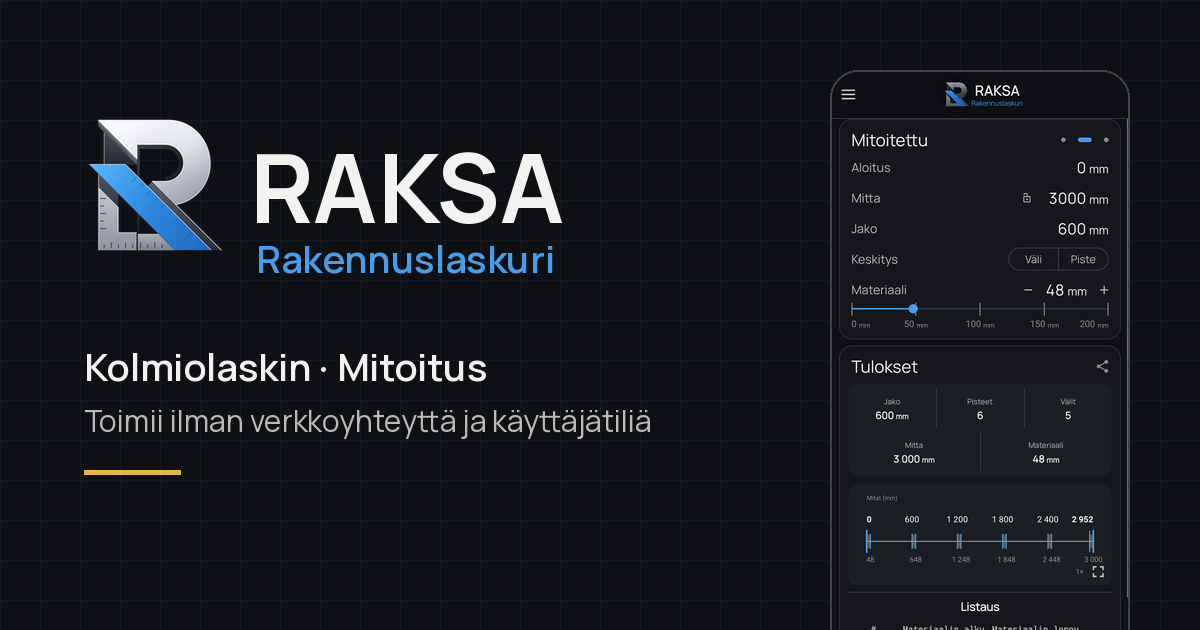
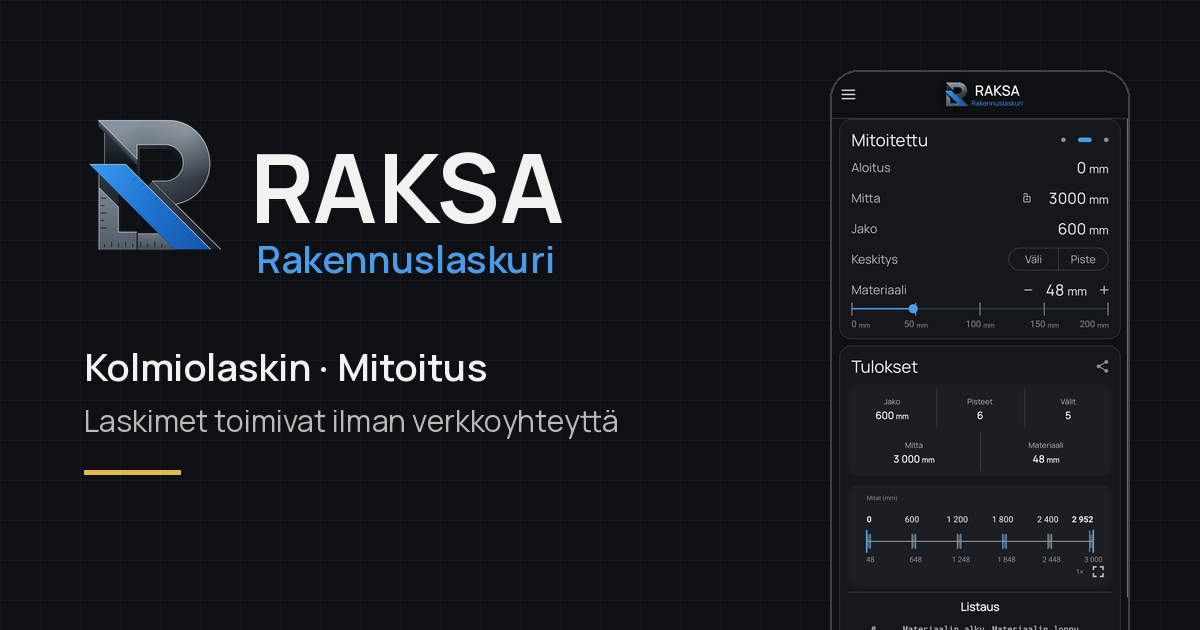
Align website with app 1.2.820 for the Google Play release
- Privacy policy (FI/EN) rewritten from the 1.2.820 implementation:
  INTERNET and ACCESS_NETWORK_STATE permissions, Google ML Kit
  Translation model download, on-device translation, ML Kit diagnostics
  (per Google's ML Kit data disclosure), local storage incl. translated
  texts and model, backup scope, no ads/analytics/tracking; updated date
- Last-updated date has one source (<time datetime>) formatted per language
- Home page: offline claim limited to the calculators, new Languages
  feature (FI/EN built in, 50+ automatically translated), version 1.2.820
  and Android 8.0+, no claim of zero permissions
- Google Play button: neutral "Tulossa Google Playhin / Coming to Google
  Play" state; set PLAY_STORE_URL in site.js to turn it into the store link
- Social preview text and sitemap dates updated

Claude-Session: https://claude.ai/code/session_01RPndgq7MaFfFhrsPx3GJA2

Changed region(s): [[0.0617, 0.6333, 0.555, 0.6937], [0.0617, 0.181, 0.185, 0.4222]]

diff --git a/raksa/privacy.html b/raksa/privacy.html
@@ -13,7 +13,7 @@
 <link rel="icon" type="image/png" sizes="192x192" href="assets/icon-192.png">
 <link rel="apple-touch-icon" href="assets/apple-touch-icon.png">
 <link rel="preload" href="assets/fonts/manrope-regular.woff2" as="font" type="font/woff2" crossorigin>
-<link rel="stylesheet" href="style.css?v=19">
+<link rel="stylesheet" href="style.css?v=20">
 <meta property="og:type" content="website">
 <meta property="og:site_name" content="Raksa">
 <meta property="og:title" content="Raksa | Tietosuojaseloste" data-i18n-content="privacyPageTitle">
@@ -21,7 +21,7 @@
 <meta property="og:url" content="https://www.rikalo.fi/raksa/privacy.html">
 <meta property="og:image" content="https://www.rikalo.fi/raksa/assets/social-preview.png">
 <meta name="twitter:card" content="summary_large_image">
-<script src="site.js?v=19" defer></script>
+<script src="site.js?v=20" defer></script>
 </head>
 <body data-page="privacy">
 <a class="skip" href="#main" data-i18n="skip">Siirry sisältöön</a>
@@ -48,53 +48,65 @@
     <p class="lead" data-i18n="privacyLead">Raksa-Android-sovelluksen ja tämän verkkosivun tietojen käsittely</p>
     <dl class="privacy-meta">
       <div><dt data-i18n="metaPackage">Pakettitunnus</dt><dd>fi.rikalo.raksa</dd></div>
-      <div><dt data-i18n="metaVersion">Sovellusversio</dt><dd>1.2.806</dd></div>
-      <div><dt data-i18n="metaUpdated">Päivitetty</dt><dd data-i18n="metaUpdatedValue">15.11.2026</dd></div>
+      <div><dt data-i18n="metaVersion">Sovellusversio</dt><dd>1.2.820</dd></div>
+      <div><dt data-i18n="metaUpdated">Päivitetty</dt><dd><time datetime="2026-11-16">16.11.2026</time></dd></div>
     </dl>
   </div>
 
   <div class="policy" data-lang="fi" lang="fi">
-    <section class="summary"><h2>Tiivistelmä</h2><p>Raksa toimii ilman käyttäjätiliä ja ilman verkkoyhteyttä. Laskenta tapahtuu laitteessa, eikä Raksa lähetä laskenta-arvoja kehittäjälle tai mihinkään ulkoiseen analytiikka-, mainos- tai pilvipalveluun. Sovelluksessa ei ole mainoksia, analytiikkaa eikä kolmannen osapuolen seurantaa.</p></section>
+    <section class="summary"><h2>Tiivistelmä</h2><p>Raksan laskimet toimivat laitteessa ilman verkkoyhteyttä ja ilman käyttäjätiliä. Raksa ei lähetä laskenta- tai mittaustietoja laitteen ulkopuolelle, eikä kehittäjällä ole palvelinta. Sovelluksessa ei ole mainontaa, analytiikkaa eikä käyttäjäseurantaa.</p><p>Jos valitset automaattisesti käännetyn kielen, sovellus lataa kielimallin Googlelta Google ML Kit Translation -kirjastolla. Käännös tehdään laitteessa, mutta ML Kit lähettää Googlelle diagnostiikka- ja käyttötietoja kohdan 5 mukaisesti.</p></section>
 
     <section id="yhteystiedot"><h2>1. Rekisterinpitäjä ja yhteystiedot</h2><p>Raksa-sovelluksen tietojen käsittelystä vastaa sovelluksen kehittäjä. Kehittäjän nimi ja sähköpostiosoite tietosuojakysymyksiä varten:</p><p data-contact><button type="button" class="reveal">Näytä yhteystiedot</button></p><p>Verkkosivu: <a href="https://www.rikalo.fi/raksa/">https://www.rikalo.fi/raksa/</a></p><noscript><p>Yhteystiedot näkyvät, kun JavaScript on käytössä.</p></noscript></section>
 
-    <section><h2>2. Sovelluksen käsittelemät tiedot</h2><p>Raksa käsittelee käyttäjän laitteessa vain sovelluksen toimintaan tarvittavia tietoja:</p><ul><li>laskureihin syötetyt arvot ja laskinten tila</li><li>kieli, teema, mittayksikkö ja desimaalit</li><li>mitoituksen ja kolmiolaskimen paikalliset asetukset.</li></ul><p>Tietoja käytetään laskentaan sekä käyttäjän valintojen ja keskeneräisen työn palauttamiseen.</p></section>
+    <section><h2>2. Sovelluksen käsittelemät tiedot</h2><p>Raksa käsittelee vain sovelluksen toimintaan tarvittavia tietoja:</p><ul><li>laskureihin syötetyt arvot ja laskinten tila</li><li>asetukset: mittayksikkö, desimaalit, teema, kieli ja mitoituksen asetukset</li><li>tieto siitä, että olet hyväksynyt automaattisen käännöksen huomautuksen</li><li>automaattisesti käännetyn kielen käännetyt sovellustekstit.</li></ul><p>Sovellus ei pyydä nimeä, sähköpostiosoitetta, sijaintia, yhteystietoja tai muita henkilötietoja, eikä siinä ole käyttäjätiliä.</p></section>
 
-    <section><h2>3. Kerääminen, jakaminen ja käyttöoikeudet</h2><p>Raksa ei kerää tai siirrä sovelluksen tietoja kehittäjän palvelimelle. Kehittäjä ei myy tietoja eikä luovuta niitä kolmansille osapuolille. Sovelluksessa ei ole käyttäjätiliä, mainoksia, analytiikkaa, kaatumisraportointia eikä sijainnin seurantaa.</p><p>Sovellus ei pyydä internet-, kamera-, mikrofoni-, sijainti-, yhteystieto-, tiedosto- tai muuta vastaavaa Android-käyttöoikeutta.</p></section>
+    <section><h2>3. Paikallinen tallennus</h2><p>Tiedot tallennetaan sovelluksen yksityiseen tallennustilaan laitteessa:</p><ul><li>asetukset, kielivalinta ja laskinten tila</li><li>automaattisesti käännetyn kielen käännetyt sovellustekstit</li><li>ML Kitin kielimalli (noin 30 Mt), jota ML Kit hallitsee</li><li>jaettava tuloskuva sovelluksen väliaikaisessa välimuistissa.</li></ul></section>
 
-    <section><h2>4. Kopiointi ja tulosten jakaminen</h2><p>Kun napautat tulosarvoa, Raksa kopioi luvun Androidin leikepöydälle. Leikepöytää hallitsee käyttöjärjestelmä.</p><p>Kun valitset tulosten jakamisen, Raksa piirtää tuloskortista kuvan sovelluksen väliaikaiseen välimuistiin ja avaa Androidin jakovalikon. Kuva siirtyy vain valitsemaasi sovellukseen tai palveluun, ja siihen sovelletaan sen ehtoja. Raksa ei lähetä kuvaa itse, eikä välimuistin kuvaa sisällytetä varmuuskopioon.</p></section>
+    <section><h2>4. Android-käyttöoikeudet</h2><p>Sovellus käyttää kahta tavallista käyttöoikeutta, joita Android ei kysy erikseen:</p><ul><li><strong>Internet</strong> (INTERNET): automaattisesti käännetyn kielen kielimallin lataus ja ML Kitin diagnostiikka</li><li><strong>Verkon tila</strong> (ACCESS_NETWORK_STATE): verkkoyhteyden tarkistus ennen kielimallin latausta.</li></ul><p>Sovellus ei pyydä sijainti-, kamera-, mikrofoni-, yhteystieto-, tiedosto-, ilmoitus- tai tilioikeuksia.</p></section>
 
-    <section><h2>5. Paikallinen tallennus ja Android-varmuuskopiointi</h2><p>Asetukset ja laskinten tila tallennetaan sovelluksen yksityiseen paikalliseen tallennustilaan.</p><p>Raksa sallii Androidin varmuuskopiointi- ja laitteensiirtotoiminnot asetuksille ja laskinten tilalle. Jos Android-varmuuskopiointi on käytössä, käyttöjärjestelmä voi siirtää tiedot Googlen hallinnoimaan varmuuskopioon tai uuteen laitteeseen. Käyttäjä hallitsee varmuuskopiointia laitteen ja Google-tilin asetuksissa.</p></section>
+    <section><h2>5. Verkkoyhteys ja Google ML Kit Translation</h2><p>Kolmiolaskin, Mitoitus, suomi, englanti, asetukset, tallennus, kopiointi ja jakaminen toimivat ilman verkkoyhteyttä.</p><p>Suomi ja englanti ovat sovelluksen omia käännöksiä. Muut kielet käännetään automaattisesti Google ML Kit Translation -kirjastolla (käännökset tuottaa Google Translate). Kun valitset tällaisen kielen, sovellus näyttää ensin huomautuksen. Hyväksynnän jälkeen kielimalli ladataan Googlen palvelimilta kerran, mikä vaatii verkkoyhteyden. Käännös tehdään laitteessa, ja vain sovelluksen omat tekstit käännetään. Laskenta- ja mittaustietoja tai syöttämiäsi arvoja ei lähetetä käännettäväksi.</p><p>ML Kit kerää käännöstoiminnon yhteydessä diagnostiikka- ja käyttötietoja ja lähettää ne Googlelle. Googlen ilmoituksen mukaan tietoja ovat esimerkiksi laitetiedot (valmistaja, malli ja käyttöjärjestelmän versio), sovelluksen pakettinimi ja versio, asennuskohtaiset tunnisteet, suorituskykymittarit, tapahtumatyypit ja virhekoodit sekä valitut lähde- ja kohdekielet. Googlen mukaan tiedot salataan siirron aikana (HTTPS), eikä niitä luovuteta kolmansille osapuolille. Google käsittelee tietoja omien ehtojensa mukaisesti; lisätietoja: <a href="https://developers.google.com/ml-kit/android-data-disclosure">ML Kitin tietojen käsittely</a> ja <a href="https://developers.google.com/ml-kit/terms">ML Kitin käyttöehdot</a>.</p></section>
 
-    <section><h2>6. Säilytys ja poistaminen</h2><p>Paikalliset tiedot säilyvät, kunnes käyttäjä muuttaa tai tyhjentää ne, tyhjentää sovelluksen tiedot Androidin asetuksista tai poistaa sovelluksen. Varmuuskopion säilytys määräytyy Androidin ja Google-tilin asetusten mukaan.</p><p>Raksalla ei ole kehittäjän ylläpitämää käyttäjätiliä eikä palvelinrekisteriä, joten kehittäjällä ei ole käyttäjäkohtaista palvelindataa poistettavana.</p></section>
+    <section><h2>6. Kopiointi ja tulosten jakaminen</h2><p>Kun napautat tulosarvoa, Raksa kopioi luvun Androidin leikepöydälle. Leikepöytää hallitsee käyttöjärjestelmä.</p><p>Kun valitset tulosten jakamisen, Raksa piirtää tuloskortista kuvan sovelluksen väliaikaiseen välimuistiin ja avaa Androidin jakovalikon. Kuva siirtyy vain valitsemaasi sovellukseen tai palveluun, ja siihen sovelletaan sen ehtoja. Raksa ei lähetä kuvaa itse.</p></section>
 
-    <section><h2>7. Lapset ja tietoturva</h2><p>Raksa on yleiskäyttöinen rakentamisen laskenta- ja mitoitustyökalu. Se ei kysy ikää eikä tietoisesti kerää henkilötietoja lapsilta tai muilta käyttäjiltä.</p><p>Tietojen käsittely on rajattu sovelluksen toiminnan edellyttämään paikalliseen tallennukseen. Käyttäjän kannattaa suojata laitteensa näytön lukituksella ja pitää ohjelmistot ajan tasalla.</p></section>
+    <section><h2>7. Android-varmuuskopiointi</h2><p>Raksa sallii Androidin varmuuskopioinnin ja laitteensiirron asetuksille, kielivalinnalle ja laskinten tilalle. Jos Android-varmuuskopiointi on käytössä, käyttöjärjestelmä voi siirtää nämä tiedot Googlen hallinnoimaan varmuuskopioon tai uuteen laitteeseen. Käännettyjä tekstejä, ML Kitin kielimallia ja välimuistin tuloskuvaa ei varmuuskopioida. Käyttäjä hallitsee varmuuskopiointia laitteen ja Google-tilin asetuksissa.</p></section>
 
-    <section><h2>8. Tämä verkkosivu</h2><p>Verkkosivu ei käytä evästeitä, analytiikkaa eikä ulkoisia fontti- tai skriptipalveluita. Kieli- ja teemavalinta tallennetaan vain selaimesi paikalliseen tallennustilaan.</p><p>Sivusto on GitHub Pages -palvelussa. GitHub voi käsitellä sivujen toimittamiseen liittyviä teknisiä tietoja, kuten IP-osoitteen, omien käytäntöjensä mukaisesti.</p></section>
+    <section><h2>8. Mainonta, analytiikka ja seuranta</h2><p>Sovelluksessa ei ole mainontaa, mainostunnistetta, analytiikkaa, kaatumisraportointia eikä käyttäjäseurantaa. Ainoa ulkopuolinen tiedonsiirto on kohdassa 5 kuvattu ML Kitin diagnostiikka.</p></section>
 
-    <section><h2>9. Muutokset</h2><p>Selostetta päivitetään, jos Raksan ominaisuudet tai tietojen käsittely muuttuvat. Uusin versio julkaistaan tällä sivulla.</p></section>
+    <section><h2>9. Säilytys ja poistaminen</h2><p>Paikalliset tiedot säilyvät, kunnes muutat tai tyhjennät ne, tyhjennät sovelluksen tiedot Androidin asetuksista tai poistat sovelluksen. Sovelluksen tietojen tyhjennys tai poisto poistaa myös käännetyt tekstit ja kielimallin. Varmuuskopion säilytys määräytyy Androidin ja Google-tilin asetusten mukaan, ja ML Kitin diagnostiikkatietojen säilytys Googlen käytäntöjen mukaan.</p><p>Raksalla ei ole kehittäjän ylläpitämää käyttäjätiliä eikä palvelinta, joten kehittäjällä ei ole käyttäjäkohtaista tietoa poistettavana.</p></section>
+
+    <section><h2>10. Lapset ja tietoturva</h2><p>Raksa on yleiskäyttöinen rakentamisen laskenta- ja mitoitustyökalu. Se ei kysy ikää eikä tietoisesti kerää henkilötietoja lapsilta tai muilta käyttäjiltä.</p><p>Käyttäjän kannattaa suojata laitteensa näytön lukituksella ja pitää ohjelmistot ajan tasalla.</p></section>
+
+    <section><h2>11. Tämä verkkosivu</h2><p>Verkkosivu ei käytä evästeitä, analytiikkaa eikä ulkoisia fontti- tai skriptipalveluita. Kieli- ja teemavalinta tallennetaan vain selaimesi paikalliseen tallennustilaan.</p><p>Sivusto on GitHub Pages -palvelussa. GitHub voi käsitellä sivujen toimittamiseen liittyviä teknisiä tietoja, kuten IP-osoitteen, omien käytäntöjensä mukaisesti.</p></section>
+
+    <section><h2>12. Muutokset</h2><p>Selostetta päivitetään, jos Raksan ominaisuudet tai tietojen käsittely muuttuvat. Uusin versio julkaistaan tällä sivulla.</p></section>
   </div>
 
   <div class="policy" data-lang="en" lang="en">
-    <section class="summary"><h2>Summary</h2><p>Raksa works without a user account and without an internet connection. Calculations are performed on the device, and Raksa does not send calculation values to the developer or to any external analytics, advertising or cloud service. The app contains no advertising, analytics or third-party tracking.</p></section>
+    <section class="summary"><h2>Summary</h2><p>Raksa's calculators work on the device without an internet connection and without a user account. Raksa does not send calculation or measurement data off the device, and the developer operates no server. The app contains no advertising, analytics or user tracking.</p><p>If you choose an automatically translated language, the app downloads a language model from Google using the Google ML Kit Translation library. Translation happens on the device, but ML Kit sends diagnostic and usage data to Google as described in section 5.</p></section>
 
     <section id="contact"><h2>1. Controller and contact</h2><p>The developer of the app is responsible for Raksa's data handling. The developer's name and email address for privacy questions:</p><p data-contact><button type="button" class="reveal">Show contact details</button></p><p>Website: <a href="https://www.rikalo.fi/raksa/">https://www.rikalo.fi/raksa/</a></p><noscript><p>Contact details are shown when JavaScript is enabled.</p></noscript></section>
 
-    <section><h2>2. Data processed by the app</h2><p>Raksa processes only the information needed for the app to work, locally on the user's device:</p><ul><li>values entered in the calculators and calculator state</li><li>language, theme, measurement unit and decimal places</li><li>local settings for dimensioning and the triangle calculator.</li></ul><p>The information is used for calculations and to restore the user's choices and unfinished work.</p></section>
+    <section><h2>2. Data processed by the app</h2><p>Raksa processes only the information the app needs to work:</p><ul><li>values entered in the calculators and calculator state</li><li>settings: measurement unit, decimal places, theme, language and dimensioning settings</li><li>a record that you have accepted the automatic translation notice</li><li>the translated app texts for an automatically translated language.</li></ul><p>The app does not ask for your name, email address, location, contacts or other personal data, and it has no user account.</p></section>
 
-    <section><h2>3. Collection, sharing and permissions</h2><p>Raksa does not collect or transfer app data to a developer-operated server. The developer does not sell the data or disclose it to third parties. The app has no user account, advertising, analytics, crash reporting or location tracking.</p><p>The app does not request internet, camera, microphone, location, contacts, file or similar Android permissions.</p></section>
+    <section><h2>3. Local storage</h2><p>The information is stored in the app's private storage on the device:</p><ul><li>settings, language choice and calculator state</li><li>the translated app texts for an automatically translated language</li><li>the ML Kit language model (about 30 MB), managed by ML Kit</li><li>a shareable result image in the app's temporary cache.</li></ul></section>
 
-    <section><h2>4. Copying and sharing results</h2><p>When you tap a result value, Raksa copies the number to the Android clipboard. The clipboard is managed by the operating system.</p><p>When you choose to share results, Raksa draws an image of the result card into the app's temporary cache and opens the Android share sheet. The image goes only to the app or service you choose, and that recipient's terms apply. Raksa does not send the image itself, and the cached image is not included in backups.</p></section>
+    <section><h2>4. Android permissions</h2><p>The app uses two normal permissions that Android does not ask you about separately:</p><ul><li><strong>Internet</strong> (INTERNET): downloading the language model for an automatically translated language, and ML Kit diagnostics</li><li><strong>Network state</strong> (ACCESS_NETWORK_STATE): checking the connection before the language model is downloaded.</li></ul><p>The app does not request location, camera, microphone, contacts, file, notification or account permissions.</p></section>
 
-    <section><h2>5. Local storage and Android backup</h2><p>Settings and calculator state are stored in the app's private local storage.</p><p>Raksa permits Android backup and device transfer for settings and calculator state. If Android backup is enabled, the operating system may transfer the information to a Google-managed backup or to a new device. Users manage backup in their device and Google Account settings.</p></section>
+    <section><h2>5. Network use and Google ML Kit Translation</h2><p>The triangle calculator, dimensioning, Finnish, English, settings, saving, copying and sharing all work without an internet connection.</p><p>Finnish and English are the app's own translations. Other languages are translated automatically with the Google ML Kit Translation library (translations powered by Google Translate). When you choose such a language, the app first shows a notice. After you accept it, the language model is downloaded from Google's servers once, which requires a network connection. Translation happens on the device, and only the app's own texts are translated. Calculation and measurement data and the values you enter are not sent for translation.</p><p>In connection with the translation feature, ML Kit collects diagnostic and usage data and sends it to Google. According to Google, this includes device information (manufacturer, model and operating system version), the app's package name and version, per-installation identifiers, performance metrics, event types and error codes, and the selected source and target languages. According to Google, the data is encrypted in transit (HTTPS) and is not transferred to third parties. Google processes the data under its own terms; more information: <a href="https://developers.google.com/ml-kit/android-data-disclosure">ML Kit data disclosure</a> and <a href="https://developers.google.com/ml-kit/terms">ML Kit Terms of Service</a>.</p></section>
 
-    <section><h2>6. Retention and deletion</h2><p>Local information remains until the user changes or clears it, clears the app's data in Android settings or uninstalls the app. Backup retention is determined by Android and Google Account settings.</p><p>Raksa has no developer-operated user account or server database, so the developer holds no user-specific server data to delete.</p></section>
+    <section><h2>6. Copying and sharing results</h2><p>When you tap a result value, Raksa copies the number to the Android clipboard. The clipboard is managed by the operating system.</p><p>When you choose to share results, Raksa draws an image of the result card into the app's temporary cache and opens the Android share sheet. The image goes only to the app or service you choose, and that recipient's terms apply. Raksa does not send the image itself.</p></section>
 
-    <section><h2>7. Children and security</h2><p>Raksa is a general-purpose construction calculation and dimensioning tool. It does not ask for age and does not knowingly collect personal data from children or other users.</p><p>Data handling is limited to the local storage the app needs to work. Users should protect their device with a screen lock and keep software up to date.</p></section>
+    <section><h2>7. Android backup</h2><p>Raksa permits Android backup and device transfer for settings, language choice and calculator state. If Android backup is enabled, the operating system may transfer this information to a Google-managed backup or to a new device. Translated texts, the ML Kit language model and the cached result image are not backed up. You manage backup in your device and Google Account settings.</p></section>
 
-    <section><h2>8. This website</h2><p>This website uses no cookies, analytics or external font or script services. Your language and theme choice is stored only in your browser's local storage.</p><p>The site is hosted on GitHub Pages. GitHub may process technical information needed to deliver the pages, such as IP addresses, under its own policies.</p></section>
+    <section><h2>8. Advertising, analytics and tracking</h2><p>The app contains no advertising, advertising ID, analytics, crash reporting or user tracking. The only external data transfer is the ML Kit diagnostics described in section 5.</p></section>
 
-    <section><h2>9. Changes</h2><p>This policy is updated if Raksa's features or data handling change. The latest version is published on this page.</p></section>
+    <section><h2>9. Retention and deletion</h2><p>Local information remains until you change or clear it, clear the app's data in Android settings or uninstall the app. Clearing the app's data or uninstalling it also removes the translated texts and the language model. Backup retention is determined by Android and Google Account settings, and retention of ML Kit diagnostic data by Google's policies.</p><p>Raksa has no developer-operated user account or server, so the developer holds no user-specific data to delete.</p></section>
+
+    <section><h2>10. Children and security</h2><p>Raksa is a general-purpose construction calculation and dimensioning tool. It does not ask for age and does not knowingly collect personal data from children or other users.</p><p>Users should protect their device with a screen lock and keep software up to date.</p></section>
+
+    <section><h2>11. This website</h2><p>This website uses no cookies, analytics or external font or script services. Your language and theme choice is stored only in your browser's local storage.</p><p>The site is hosted on GitHub Pages. GitHub may process technical information needed to deliver the pages, such as IP addresses, under its own policies.</p></section>
+
+    <section><h2>12. Changes</h2><p>This policy is updated if Raksa's features or data handling change. The latest version is published on this page.</p></section>
   </div>
 </main>
 
@@ -104,7 +116,7 @@
     <a href="./" data-i18n="home">Etusivu</a>
     <a href="#yhteystiedot" data-contact-link data-i18n="contact">Yhteystiedot</a>
   </nav>
-  <small><span data-i18n="version">Versio 1.2.806</span> · © 2026 Raksa</small>
+  <small><span data-i18n="version">Versio 1.2.820</span> · © 2026 Raksa</small>
 </footer>
 </body>
 </html>

diff --git a/raksa/site.js b/raksa/site.js
@@ -2,20 +2,25 @@
 (() => {
   'use strict';
 
+  /* Google Play store listing. Set the final URL here once the app is published;
+     until then the home page shows a neutral "Coming to Google Play" state. */
+  const PLAY_STORE_URL = '';
+
   const STRINGS = {
     fi: {
       skip: 'Siirry sisältöön', subtitle: 'Rakennuslaskuri', settings: 'Asetukset', language: 'Kieli', theme: 'Teema',
       system: 'Järjestelmä', light: 'Vaalea', dark: 'Tumma', privacy: 'Tietosuoja', home: 'Etusivu', contact: 'Yhteystiedot', footerNav: 'Alatunniste',
-      version: 'Versio 1.2.806',
+      version: 'Versio 1.2.820',
       pageTitle: 'Raksa | Rakennuslaskuri',
-      pageDescription: 'Raksa on Android-sovellus suorakulmaisen kolmion laskentaan ja rakennustyön mitoitukseen. Toimii ilman verkkoyhteyttä ja käyttäjätiliä.',
-      ogDescription: 'Kolmiolaskin ja mitoitus rakennustyön käytännön tilanteisiin. Toimii ilman verkkoyhteyttä.',
+      pageDescription: 'Raksa on Android-sovellus suorakulmaisen kolmion laskentaan ja rakennustyön mitoitukseen. Laskimet toimivat ilman verkkoyhteyttä ja käyttäjätiliä.',
+      ogDescription: 'Kolmiolaskin ja mitoitus rakennustyön käytännön tilanteisiin. Laskimet toimivat ilman verkkoyhteyttä.',
       ogImageAlt: 'Raksa-rakennuslaskurin logo ja mitoitusnäkymä',
       eyebrow: 'Android-sovellus rakentamiseen',
       title: 'Mitat ja jaot selkeästi työmaalla',
       lead: 'Raksa ratkaisee suorakulmaisen kolmion ja laskee mittapisteet toistuville rakenteille, kuten tolppajaolle ja rimoitukselle. Laskenta tapahtuu laitteessa ilman verkkoyhteyttä ja käyttäjätiliä.',
       explore: 'Katso työkalut',
-      status: 'Kehitysversio 1.2.806 · Ei vielä saatavilla Google Playssa',
+      status: 'Versio 1.2.820 · Android 8.0 tai uudempi',
+      playComing: 'Tulossa Google Playhin', playGet: 'Lataa Google Playsta',
       toolsEyebrow: 'Työkalut', toolsTitle: 'Kolmiolaskin ja mitoitus',
       triangleTitle: 'Kolmiolaskin',
       triangleText: 'Anna kaksi arvoa, joista ainakin toinen on sivu. Raksa laskee muut sivut, kulmat, pinta-alan, piirin ja kaltevuuden jo kirjoittaessasi.',
@@ -30,14 +35,16 @@
       dim3: 'Materiaalivahvuus, zoomattava mittajana koko näytön tilassa ja mittapistelista',
       dimensionsAlt: 'Raksan mitoitus: Mitoitettu-tila, mitta 3000 mm, jako 600 mm ja materiaali 48 mm, tuloksena mittajana ja mittapisteet',
       featuresEyebrow: 'Molemmissa laskimissa', featuresTitle: 'Tehty käytännön työhön',
-      f1Title: 'Ilman verkkoyhteyttä',
-      f1Text: 'Laskenta tapahtuu laitteessa. Sovellus ei tarvitse käyttäjätiliä eikä pyydä Android-käyttöoikeuksia.',
+      f1Title: 'Laskimet ilman verkkoyhteyttä',
+      f1Text: 'Laskenta tapahtuu laitteessa, eikä sovellus tarvitse käyttäjätiliä. Verkkoa tarvitaan vain automaattisesti käännetyn kielen käyttöönottoon.',
       f2Title: 'Kopioi ja jaa',
       f2Text: 'Tulosarvon napautus kopioi luvun. Jakopainike lähettää tulokset kuvana Androidin jakovalikon kautta.',
       f3Title: 'Tallentuu automaattisesti',
       f3Text: 'Arvot ja asetukset ovat tallessa, kun avaat sovelluksen uudelleen. Tyhjennyksen voi perua.',
       f4Title: 'Omat asetukset',
-      f4Text: 'Yksiköt millimetreistä kilometreihin, 0–3 desimaalia, suomi tai englanti sekä järjestelmän, vaalea tai tumma teema.',
+      f4Text: 'Yksiköt millimetreistä kilometreihin, 0–3 desimaalia sekä järjestelmän, vaalea tai tumma teema.',
+      f5Title: 'Kielet',
+      f5Text: 'Suomi ja englanti ovat sovelluksen omia käännöksiä. Yli 50 muuta kieltä käännetään automaattisesti laitteessa Google ML Kitillä, ja käännökset voivat olla epätarkkoja.',
       development: 'Kehitys', grow: 'Raksa kasvaa harkitusti',
       growText: 'Seuraavat työkalut näkyvät sovelluksessa jo merkinnällä Tulossa. Tällä sivulla esitellään valmiina vain nykyisen version ominaisuudet.',
       next1: 'Pinta-alat ja tilavuudet', next2: 'Materiaalimenekit', next3: 'Lisää rakentamisen laskureita ja käytännön työkaluja',
@@ -46,21 +53,22 @@
       privacyDescription: 'Raksa-Android-sovelluksen ja raksa-verkkosivun tietosuojaseloste.',
       privacyEyebrow: 'Raksa · Rakennuslaskuri', privacyTitle: 'Tietosuojaseloste',
       privacyLead: 'Raksa-Android-sovelluksen ja tämän verkkosivun tietojen käsittely',
-      metaPackage: 'Pakettitunnus', metaVersion: 'Sovellusversio', metaUpdated: 'Päivitetty', metaUpdatedValue: '15.11.2026'
+      metaPackage: 'Pakettitunnus', metaVersion: 'Sovellusversio', metaUpdated: 'Päivitetty'
     },
     en: {
       skip: 'Skip to content', subtitle: 'Construction calculator', settings: 'Settings', language: 'Language', theme: 'Theme',
       system: 'System', light: 'Light', dark: 'Dark', privacy: 'Privacy', home: 'Home', contact: 'Contact', footerNav: 'Footer',
-      version: 'Version 1.2.806',
+      version: 'Version 1.2.820',
       pageTitle: 'Raksa | Construction calculator',
-      pageDescription: 'Raksa is an Android app for right-triangle calculations and construction dimensioning. Works offline and without a user account.',
-      ogDescription: 'Triangle calculator and dimensioning for practical construction work. Works offline.',
+      pageDescription: 'Raksa is an Android app for right-triangle calculations and construction dimensioning. The calculators work offline and without a user account.',
+      ogDescription: 'Triangle calculator and dimensioning for practical construction work. The calculators work offline.',
       ogImageAlt: 'Raksa construction calculator logo and dimensioning screen',
       eyebrow: 'Android app for construction',
       title: 'Clear measurements and layouts on site',
       lead: 'Raksa solves right triangles and calculates measurement points for repeating structures such as stud and batten spacing. Calculations run on the device, offline and without a user account.',
       explore: 'View the tools',
-      status: 'Development version 1.2.806 · Not yet available on Google Play',
+      status: 'Version 1.2.820 · Android 8.0 or later',
+      playComing: 'Coming to Google Play', playGet: 'Get it on Google Play',
       toolsEyebrow: 'Tools', toolsTitle: 'Triangle calculator and dimensioning',
       triangleTitle: 'Triangle calculator',
       triangleText: 'Enter two values, at least one of them a side. Raksa calculates the remaining sides, angles, area, perimeter and slope ratio as you type.',
@@ -75,14 +83,16 @@
       dim3: 'Material thickness, a zoomable full-screen measurement line and a point listing',
       dimensionsAlt: 'Raksa dimensioning: Dimensioned mode, dimension 3000 mm, spacing 600 mm and material 48 mm, with the measurement line and points',
       featuresEyebrow: 'In both calculators', featuresTitle: 'Built for practical work',
-      f1Title: 'Works offline',
-      f1Text: 'Calculations run on the device. The app needs no user account and requests no Android permissions.',
+      f1Title: 'Calculators work offline',
+      f1Text: 'Calculations run on the device, and the app needs no user account. A network connection is needed only to set up an automatically translated language.',
       f2Title: 'Copy and share',
       f2Text: 'Tap a result value to copy the number. The share button sends the results as an image through the Android share sheet.',
       f3Title: 'Saved automatically',
       f3Text: 'Values and settings are kept when you reopen the app. Clearing can be undone.',
       f4Title: 'Your settings',
-      f4Text: 'Units from millimetres to kilometres, 0–3 decimal places, Finnish or English, and a system, light or dark theme.',
+      f4Text: 'Units from millimetres to kilometres, 0–3 decimal places, and a system, light or dark theme.',
+      f5Title: 'Languages',
+      f5Text: 'Finnish and English are the app\'s own translations. More than 50 other languages are translated automatically on the device with Google ML Kit, and the translations may be inaccurate.',
       development: 'Development', grow: 'Raksa grows with purpose',
       growText: 'The next tools are already shown in the app as Coming soon. This page presents as complete only the features of the current version.',
       next1: 'Areas and volumes', next2: 'Material usage', next3: 'More construction calculators and practical tools',
@@ -91,7 +101,7 @@
       privacyDescription: 'Privacy Policy for the Raksa Android app and this website.',
       privacyEyebrow: 'Raksa · Construction calculator', privacyTitle: 'Privacy Policy',
       privacyLead: 'Data handling in the Raksa Android app and on this website',
-      metaPackage: 'Package name', metaVersion: 'App version', metaUpdated: 'Last updated', metaUpdatedValue: '15 November 2026'
+      metaPackage: 'Package name', metaVersion: 'App version', metaUpdated: 'Last updated'
     }
   };
 
@@ -144,6 +154,10 @@
       const text = copy[el.dataset.i18nContent];
       if (text) el.content = text;
     });
+    document.querySelectorAll('time[datetime]').forEach((el) => {
+      el.textContent = new Intl.DateTimeFormat(root.lang === 'en' ? 'en-GB' : 'fi-FI', { dateStyle: 'long' })
+        .format(new Date(`${el.dateTime}T12:00:00`));
+    });
     document.title = isPrivacy ? copy.privacyPageTitle : copy.pageTitle;
     document.querySelectorAll('[data-contact-link]').forEach((a) => {
       a.hash = root.lang === 'en' ? 'contact' : 'yhteystiedot';
@@ -166,6 +180,19 @@
       link.focus();
     });
   });
+
+  if (PLAY_STORE_URL) {
+    document.querySelectorAll('[data-play-store]').forEach((pending) => {
+      const link = document.createElement('a');
+      link.className = 'button primary play-link';
+      link.href = PLAY_STORE_URL;
+      link.rel = 'noopener';
+      const label = pending.querySelector('[data-i18n]');
+      label.dataset.i18n = 'playGet';
+      link.append(...pending.childNodes);
+      pending.replaceWith(link);
+    });
+  }
 
   const themeSelect = document.getElementById('theme');
   const languageSelect = document.getElementById('language');

diff --git a/raksa/index.html b/raksa/index.html
@@ -5,7 +5,7 @@
 <meta name="viewport" content="width=device-width,initial-scale=1">
 <script>(function(){var r=document.documentElement,t,l;try{t=localStorage.getItem('raksa-theme');l=localStorage.getItem('raksa-language')}catch(e){}if(t!=='light'&&t!=='dark')t='system';if(l!=='fi'&&l!=='en'){l=(navigator.languages||[navigator.language||'']).some(function(x){return /^fi(\b|-)/i.test(x)})?'fi':'en'}r.dataset.theme=t;r.dataset.resolvedTheme=t==='system'?(matchMedia('(prefers-color-scheme: dark)').matches?'dark':'light'):t;r.lang=l})();</script>
 <title>Raksa | Rakennuslaskuri</title>
-<meta name="description" content="Raksa on Android-sovellus suorakulmaisen kolmion laskentaan ja rakennustyön mitoitukseen. Toimii ilman verkkoyhteyttä ja käyttäjätiliä." data-i18n-content="pageDescription">
+<meta name="description" content="Raksa on Android-sovellus suorakulmaisen kolmion laskentaan ja rakennustyön mitoitukseen. Laskimet toimivat ilman verkkoyhteyttä ja käyttäjätiliä." data-i18n-content="pageDescription">
 <meta name="color-scheme" content="light dark">
 <meta name="theme-color" content="#F5F2EC">
 <link rel="canonical" href="https://www.rikalo.fi/raksa/">
@@ -13,11 +13,11 @@
 <link rel="icon" type="image/png" sizes="192x192" href="assets/icon-192.png">
 <link rel="apple-touch-icon" href="assets/apple-touch-icon.png">
 <link rel="preload" href="assets/fonts/manrope-regular.woff2" as="font" type="font/woff2" crossorigin>
-<link rel="stylesheet" href="style.css?v=19">
+<link rel="stylesheet" href="style.css?v=20">
 <meta property="og:type" content="website">
 <meta property="og:site_name" content="Raksa">
 <meta property="og:title" content="Raksa | Rakennuslaskuri" data-i18n-content="pageTitle">
-<meta property="og:description" content="Kolmiolaskin ja mitoitus rakennustyön käytännön tilanteisiin. Toimii ilman verkkoyhteyttä." data-i18n-content="ogDescription">
+<meta property="og:description" content="Kolmiolaskin ja mitoitus rakennustyön käytännön tilanteisiin. Laskimet toimivat ilman verkkoyhteyttä." data-i18n-content="ogDescription">
 <meta property="og:url" content="https://www.rikalo.fi/raksa/">
 <meta property="og:image" content="https://www.rikalo.fi/raksa/assets/social-preview.png">
 <meta property="og:image:width" content="1200">
@@ -26,7 +26,7 @@
 <meta property="og:locale" content="fi_FI">
 <meta property="og:locale:alternate" content="en_US">
 <meta name="twitter:card" content="summary_large_image">
-<script src="site.js?v=19" defer></script>
+<script src="site.js?v=20" defer></script>
 </head>
 <body>
 <a class="skip" href="#main" data-i18n="skip">Siirry sisältöön</a>
@@ -53,10 +53,11 @@
       <h1 data-i18n="title">Mitat ja jaot selkeästi työmaalla</h1>
       <p class="lead" data-i18n="lead">Raksa ratkaisee suorakulmaisen kolmion ja laskee mittapisteet toistuville rakenteille, kuten tolppajaolle ja rimoitukselle. Laskenta tapahtuu laitteessa ilman verkkoyhteyttä ja käyttäjätiliä.</p>
       <div class="actions">
-        <a class="button primary" href="#tools" data-i18n="explore">Katso työkalut</a>
+        <span class="button play-pending" data-play-store><svg class="play-icon" viewBox="0 0 24 24" aria-hidden="true"><path d="M7 4.5v15l12-7.5z"/></svg><span data-i18n="playComing">Tulossa Google Playhin</span></span>
+        <a class="button secondary" href="#tools" data-i18n="explore">Katso työkalut</a>
         <a class="button secondary" href="privacy.html" data-i18n="privacy">Tietosuoja</a>
       </div>
-      <p class="status"><span class="status-dot" aria-hidden="true"></span><span data-i18n="status">Kehitysversio 1.2.806 · Ei vielä saatavilla Google Playssa</span></p>
+      <p class="status"><span class="status-dot" aria-hidden="true"></span><span data-i18n="status">Versio 1.2.820 · Android 8.0 tai uudempi</span></p>
     </div>
   </section>
 
@@ -105,10 +106,11 @@
       <h2 id="featuresTitle" data-i18n="featuresTitle">Tehty käytännön työhön</h2>
     </div>
     <ul class="feature-grid">
-      <li><h3 data-i18n="f1Title">Ilman verkkoyhteyttä</h3><p data-i18n="f1Text">Laskenta tapahtuu laitteessa. Sovellus ei tarvitse käyttäjätiliä eikä pyydä Android-käyttöoikeuksia.</p></li>
+      <li><h3 data-i18n="f1Title">Laskimet ilman verkkoyhteyttä</h3><p data-i18n="f1Text">Laskenta tapahtuu laitteessa, eikä sovellus tarvitse käyttäjätiliä. Verkkoa tarvitaan vain automaattisesti käännetyn kielen käyttöönottoon.</p></li>
       <li><h3 data-i18n="f2Title">Kopioi ja jaa</h3><p data-i18n="f2Text">Tulosarvon napautus kopioi luvun. Jakopainike lähettää tulokset kuvana Androidin jakovalikon kautta.</p></li>
       <li><h3 data-i18n="f3Title">Tallentuu automaattisesti</h3><p data-i18n="f3Text">Arvot ja asetukset ovat tallessa, kun avaat sovelluksen uudelleen. Tyhjennyksen voi perua.</p></li>
-      <li><h3 data-i18n="f4Title">Omat asetukset</h3><p data-i18n="f4Text">Yksiköt millimetreistä kilometreihin, 0–3 desimaalia, suomi tai englanti sekä järjestelmän, vaalea tai tumma teema.</p></li>
+      <li><h3 data-i18n="f4Title">Omat asetukset</h3><p data-i18n="f4Text">Yksiköt millimetreistä kilometreihin, 0–3 desimaalia sekä järjestelmän, vaalea tai tumma teema.</p></li>
+      <li><h3 data-i18n="f5Title">Kielet</h3><p data-i18n="f5Text">Suomi ja englanti ovat sovelluksen omia käännöksiä. Yli 50 muuta kieltä käännetään automaattisesti laitteessa Google ML Kitillä, ja käännökset voivat olla epätarkkoja.</p></li>
     </ul>
   </section>
 
@@ -136,7 +138,7 @@
     <a href="privacy.html" data-i18n="privacy">Tietosuoja</a>
     <a href="privacy.html#yhteystiedot" data-contact-link data-i18n="contact">Yhteystiedot</a>
   </nav>
-  <small><span data-i18n="version">Versio 1.2.806</span> · © 2026 Raksa</small>
+  <small><span data-i18n="version">Versio 1.2.820</span> · © 2026 Raksa</small>
 </footer>
 </body>
 </html>

diff --git a/raksa/style.css b/raksa/style.css
@@ -136,6 +136,8 @@ html[lang="fi"] [data-lang="en"], html[lang="en"] [data-lang="fi"] { display: no
 .primary { color: var(--on-accent); background: var(--accent); box-shadow: 0 8px 22px color-mix(in srgb, var(--accent) 24%, transparent); }
 .primary:hover { box-shadow: 0 12px 28px color-mix(in srgb, var(--accent) 32%, transparent); }
 .secondary { border: 1px solid var(--border); }
+.play-icon { flex: none; width: 18px; height: 18px; margin-right: 10px; fill: currentColor; }
+.play-pending { color: var(--muted); background: var(--surface-2); border: 1px dashed var(--border); cursor: default; }
 .secondary:hover { background: color-mix(in srgb, var(--accent) 7%, transparent); border-color: color-mix(in srgb, var(--accent) 45%, var(--border)); }
 
 /* Hero */
@@ -166,7 +168,7 @@ html[lang="fi"] [data-lang="en"], html[lang="en"] [data-lang="fi"] { display: no
 .phone-shot img { display: block; width: 100%; }
 
 .features { padding: 48px 0; }
-.feature-grid { display: grid; grid-template-columns: repeat(4, 1fr); gap: 16px; margin: 0; padding: 0; list-style: none; }
+.feature-grid { display: grid; grid-template-columns: repeat(auto-fit, minmax(200px, 1fr)); gap: 16px; margin: 0; padding: 0; list-style: none; }
 .feature-grid li { padding: 24px; background: var(--surface); border: 1px solid var(--border); border-radius: var(--radius); }
 .feature-grid h3 { margin: 0 0 .5em; font-size: 1.15rem; }
 .feature-grid p { margin: 0; color: var(--muted); font-size: .95rem; }
@@ -206,9 +208,6 @@ html[lang="fi"] [data-lang="en"], html[lang="en"] [data-lang="fi"] { display: no
 .site-footer a:hover { color: var(--text); text-decoration: underline; text-underline-offset: 3px; }
 
 /* Responsive */
-@media (max-width: 960px) {
-  .feature-grid { grid-template-columns: repeat(2, 1fr); }
-}
 @media (max-width: 800px) {
   .site-header { height: 68px; }
   .brand-mark { width: 48px; height: 48px; }
@@ -227,7 +226,6 @@ html[lang="fi"] [data-lang="en"], html[lang="en"] [data-lang="fi"] { display: no
   .brand small { font-size: .74rem; }
   .hero h1 { font-size: 2.5rem; }
   .tool { padding: 20px; border-radius: 22px; }
-  .feature-grid { grid-template-columns: 1fr; }
 }
 @media (hover: none) {
   .primary:hover, .secondary:hover { box-shadow: none; }
